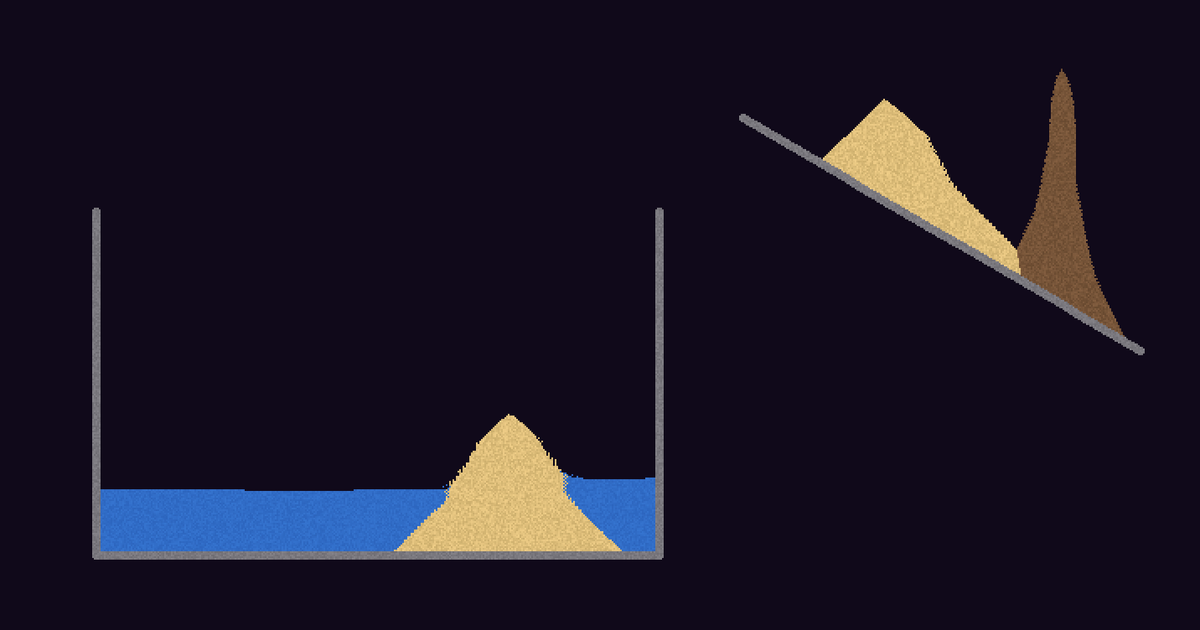
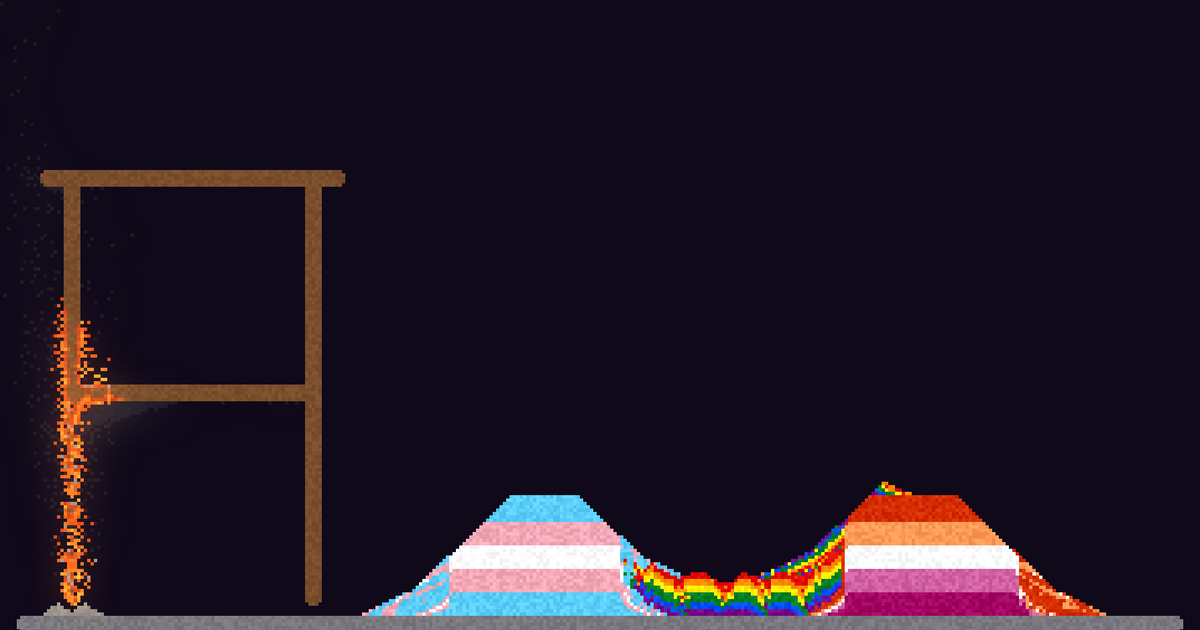
Sand's share picture shows a wooden frame burning, a trans and a lesbian flag laid whole and a rainbow poured in stripes between them; the picture script presses a mini's buttons by their names as well as their words, and moves the mouse off the mini before the picture so no brush outline is in it. 

Changed region(s): [[0.0, 0.2714, 0.9867, 1.0], [0.6167, 0.1206, 0.9558, 0.573]]

diff --git a/scripts/pictures.ts b/scripts/pictures.ts
@@ -78,27 +78,27 @@ const shots: Record<string, { query?: string; script?: string; pours?: Pour[]; w
     comet: { query: "?seed=lumen&field=6", ...aimed("lumen", 6) },
     // learning some way into a world with everything in it, the ground and what it sees showing
     generalist: { query: "?seed=meadow&hard=50&ground=100&hazards=100&boxes=100&moving=100&off=&legs=2", wait: 20000, from: 0.72 },
-    // a ledge of stone and a cup, with sand, dirt and water poured onto them and steam under the ledge
+    // a wooden frame burning on the left, a trans and a lesbian flag laid whole and a rainbow poured in stripes, on a floor of stone
     sand: {
         pours: [
-            { pick: "stone", size: 2, from: [0.08, 0.92], to: [0.55, 0.92] },
-            { pick: "stone", size: 2, from: [0.08, 0.55], to: [0.08, 0.92] },
-            { pick: "stone", size: 2, from: [0.55, 0.55], to: [0.55, 0.92] },
-            { pick: "stone", size: 2, from: [0.62, 0.45], to: [0.95, 0.7] },
-            { pick: "water", size: 10, from: [0.2, 0.2], to: [0.24, 0.2], steps: 150 },
-            { pick: "sand", size: 6, from: [0.42, 0.15], to: [0.43, 0.15], steps: 120 },
-            { pick: "sand", size: 6, from: [0.75, 0.15], to: [0.76, 0.15], steps: 100 },
-            { pick: "dirt", size: 6, from: [0.88, 0.2], to: [0.89, 0.2], steps: 80 },
-            { pick: "steam", size: 8, from: [0.7, 0.95], to: [0.85, 0.95], steps: 60 },
+            { pick: "stone", size: 2, from: [0.02, 0.93], to: [0.98, 0.93] },
+            { pick: "wood", size: 2, from: [0.06, 0.9], to: [0.06, 0.45] },
+            { pick: "wood", size: 2, from: [0.26, 0.9], to: [0.26, 0.45] },
+            { pick: "wood", size: 2, from: [0.04, 0.45], to: [0.28, 0.45] },
+            { pick: "wood", size: 2, from: [0.06, 0.68], to: [0.26, 0.68] },
+            { pick: ["pride sand", "trans flag", "whole flag"], size: 7, from: [0.45, 0.45], to: [0.45, 0.45], steps: 1 },
+            { pick: ["lesbian flag"], size: 7, from: [0.78, 0.45], to: [0.78, 0.45], steps: 1 },
+            { pick: ["rainbow flag", "pour"], size: 6, from: [0.52, 0.12], to: [0.72, 0.12], steps: 6 },
+            { pick: "fire", size: 3, from: [0.08, 0.86], to: [0.24, 0.86], steps: 40 },
         ],
-        wait: 9000,
-        from: "bottom",
+        wait: 6000,
+        from: 0.8,
     },
 };
 
-/** A stroke of a mini's brush for its picture: the button to press first, the brush's size, and from and to as parts of the canvas's width and height. */
+/** A stroke of a mini's brush for its picture: the buttons to press first, by their words or their names, the brush's size, and from and to as parts of the canvas's width and height. */
 interface Pour {
-    pick: string;
+    pick: string | string[];
     size: number;
     from: [number, number];
     to: [number, number];
@@ -120,11 +120,13 @@ function mini(id: string): Wanted["make"] {
         await tab.open(`${await served()}/minis/${id}/${query}`, 1500);
         if (script) await tab.run(`${script}; 1`);
         for (const pour of pours) {
-            await tab.run(`(() => { [...document.querySelectorAll(".mote-panel button")].find((b) => b.textContent === ${JSON.stringify(pour.pick)}).click(); const size = document.querySelector(".mote-panel input[type=range]"); size.value = "${pour.size}"; size.dispatchEvent(new Event("input")); return 1; })()`);
+            await tab.run(`(() => { for (const pick of ${JSON.stringify([pour.pick].flat())}) [...document.querySelectorAll(".mote-panel button")].find((b) => b.textContent === pick || b.getAttribute("aria-label") === pick).click(); const size = document.querySelector(".mote-panel input[type=range]"); size.value = "${pour.size}"; size.dispatchEvent(new Event("input")); return 1; })()`);
             const b = await tab.run<{ x: number; y: number; width: number; height: number }>(`(() => { const b = document.querySelector(".mini-stage canvas:not(.mote-gl)").getBoundingClientRect(); return { x: b.x, y: b.y, width: b.width, height: b.height }; })()`);
             const point = ([x, y]: [number, number]) => ({ x: b.x + b.width * x, y: b.y + b.height * y });
             await tab.drag(point(pour.from), point(pour.to), pour.steps ?? 20);
         }
+        // the mouse leaves, so that a brush's outline is not in the picture
+        if (pours.length > 0) await tab.move(1, 1);
         await tab.wait(wait);
         if (tab.errors.length > 0) throw new Error(`${id}: ${tab.errors.join("; ")}`);
         const box = await tab.run<{ x: number; y: number; width: number; height: number }>(`(() => { const b = document.querySelector(".mini-stage canvas").getBoundingClientRect(); return { x: b.x + scrollX, y: b.y + scrollY, width: b.width, height: b.height }; })()`);
